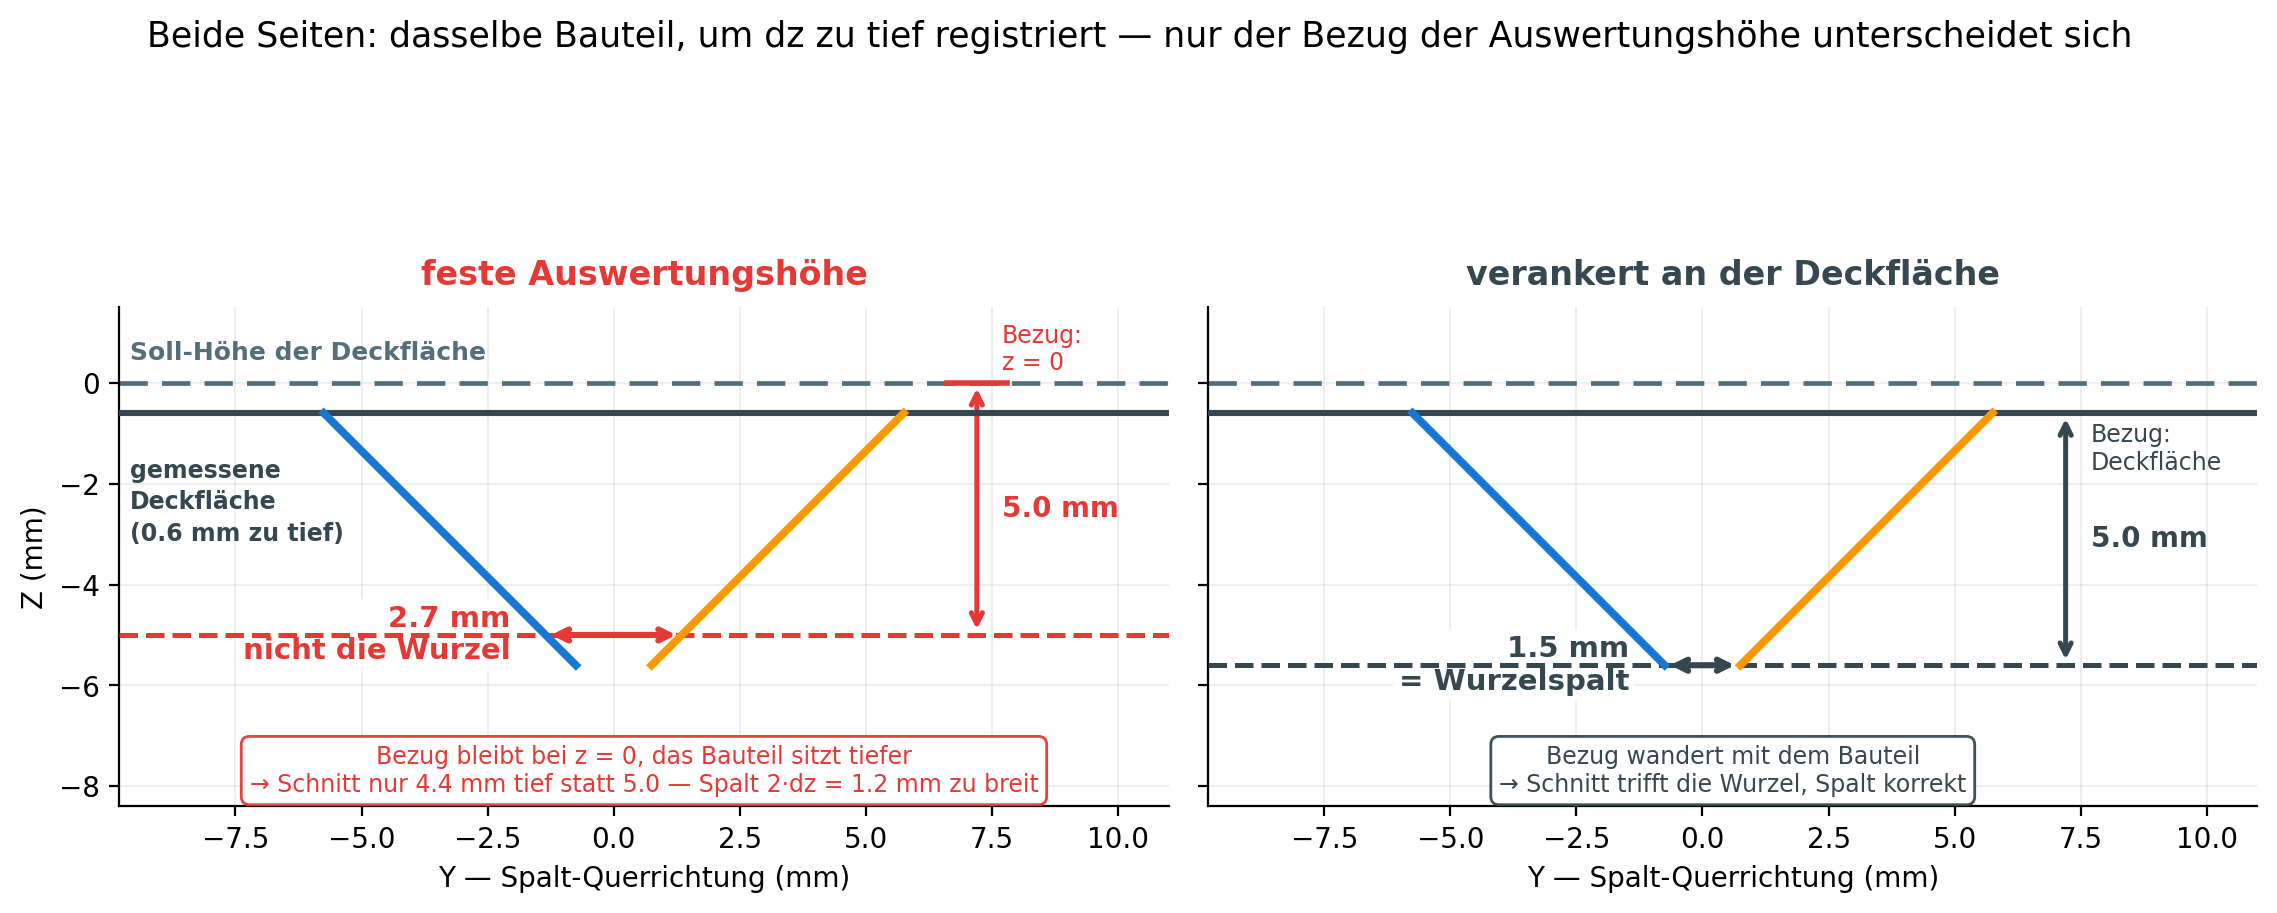
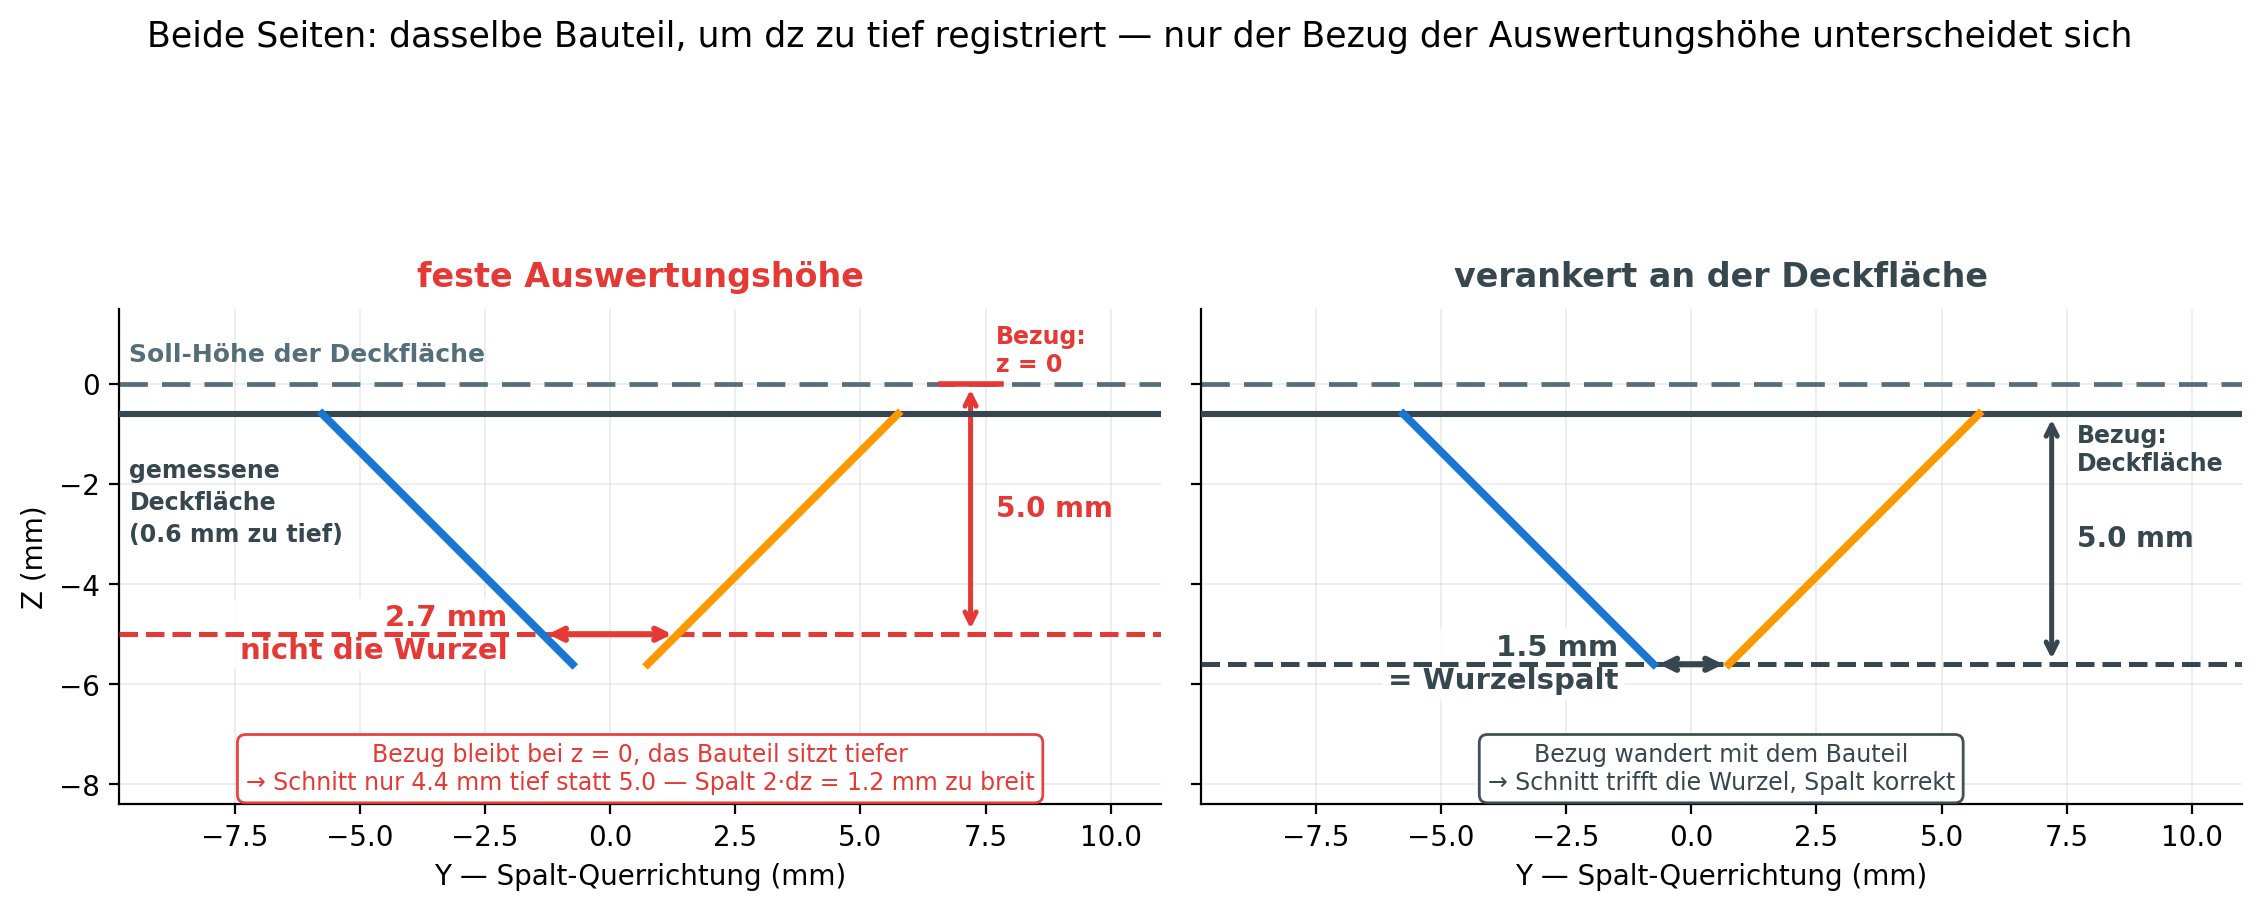
style(docs): Anker-Beschriftungen in der Verstaerkungs-Abbildung fetten
"Bezug: z = 0" und "Bezug: Deckflaeche" benennen den entscheidenden
Unterschied zwischen beiden Panels und standen als einzige Beschriftungen
noch mager.

diff --git a/scripts/generate_methodik_figures.py b/scripts/generate_methodik_figures.py
@@ -258,7 +258,7 @@ def figure_amplification(path: Path):
         # der Text auf der Soll-Höhen-Linie.
         ax.text(x_depth + 0.5,
                 z_anchor - 0.2 if anchored else z_anchor + 0.15, anchor_txt,
-                color=farbe, fontsize=8.5,
+                color=farbe, fontsize=8.5, weight="bold",
                 va="top" if anchored else "bottom")
 
         # Auswertungshöhe und gemessene Spaltbreite
